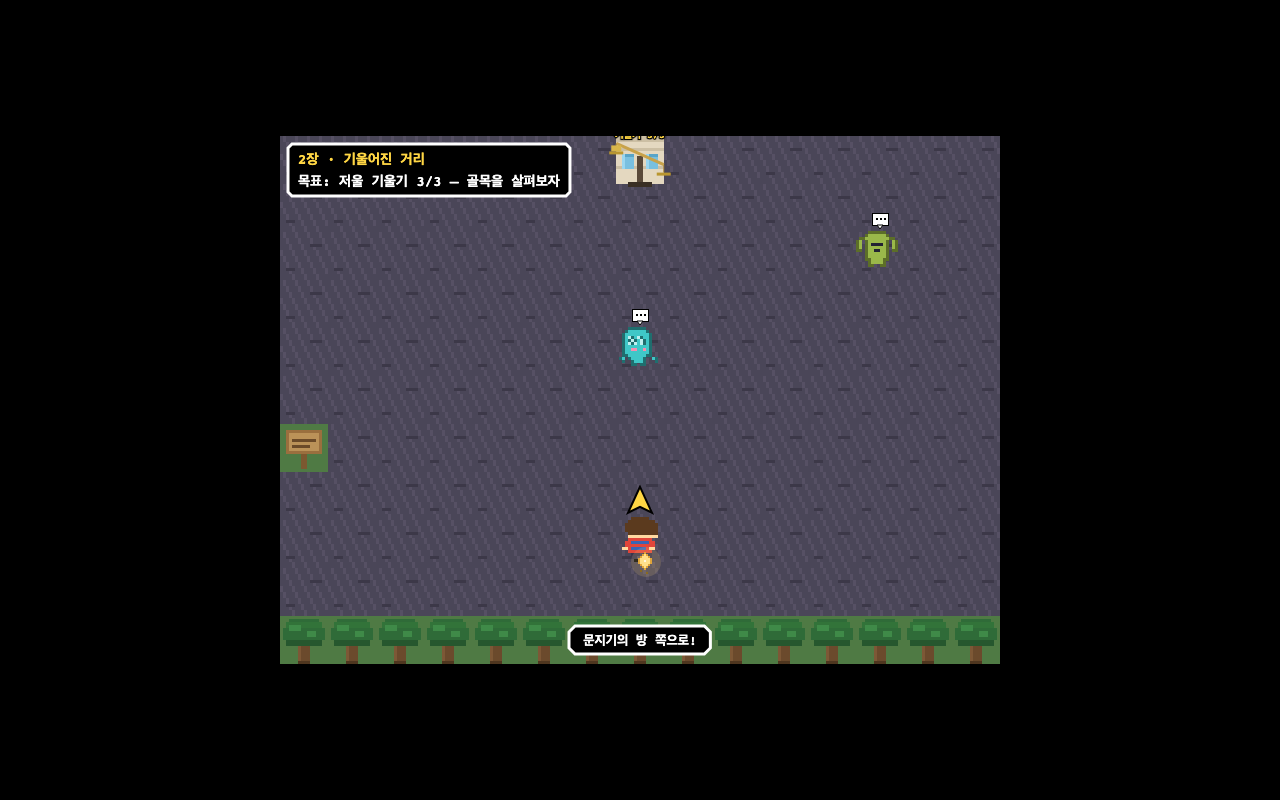
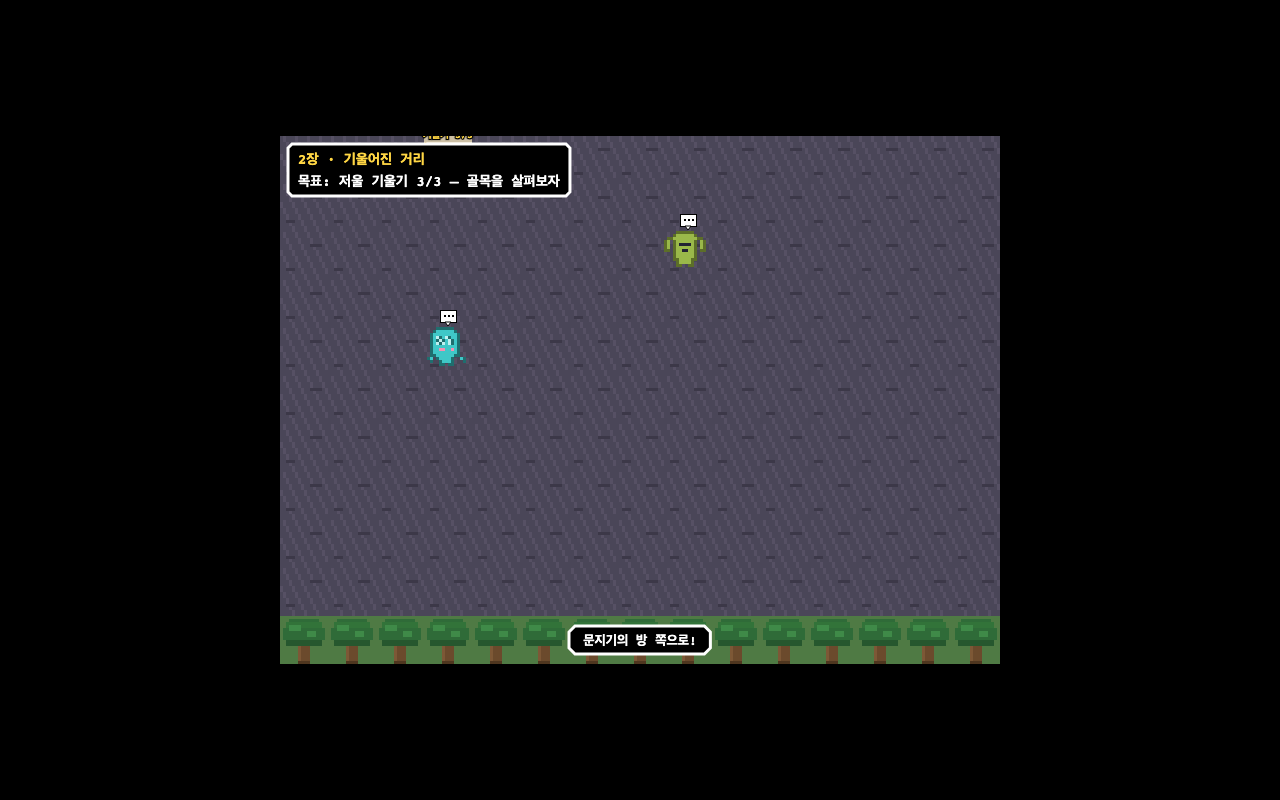
feat: expand chapter one street pressure

diff --git a/src/data.js b/src/data.js
@@ -36,7 +36,7 @@ const MAPS = {
     warps: [
       { x: 13, y: 0, to: 'forest', tx: 20, ty: 22 },
       { x: 14, y: 0, to: 'forest', tx: 21, ty: 22 },
-      { x: 24, y: 5, to: 'freestreet', tx: 14, ty: 17 },
+      { x: 24, y: 5, to: 'freestreet', tx: 18, ty: 21 },
     ],
     npcs: [
       { id: 'prof', x: 4, y: 12, pal: 'prof', name: '박사님' },
@@ -77,52 +77,57 @@ const MAPS = {
       '어디선가 안내방송이 들린다.\n"어서 오세요! 전부! 공짜!\n※약관은 아주 작게…"',
     ],
     tiles: [
-      'TTTTTTTTTTTTTTTTTTTTTTTTTTTT',
-      'TGOOOOOOOGGOOOOOOGGOOOOOOOGT',
-      'TGOOOOOOOGGOOOOOOGGOOOOOOOGT',
-      'TGOOOOOOOGGOOOOOOGGOOOOOOOGT',
-      'TGGGG6GGGGGGGG7GGGGGGG6GGGGT',
-      'TPPPPPPPPPPPPPPPPPPPPPPPPPPT',
-      'TPPPPPPPPYPPPPPPPPYPPPPPPPPT',
-      'TPPPPPPPPPPPPPPPPPPPPPPPPPPT',
-      'TPPPPPPPPPPPPPPPPPPPPPPPPPPT',
-      'TPPPPPPPPPPPPPPPPPPPPPPPPPPT',
-      'TPPPPPPPPPPPPPPPPPPPPPPPPPPT',
-      'TPPPPPPPPPPPPPPPPPPPPPPPPPPT',
-      'TPPPPPPPPPPPPPPPPPPPPPPPPPPT',
-      'TPPPPPPPPPPPPPPPPPPPYPPPPPP9',
-      'TPPPPPPPPPPPPPPPPPPPPPPPPPPT',
-      'TPPP6PPPPPPPPPPPPPPPPPPPPPPT',
-      'TGOOOOOOGGGGGGGGGGGGGGGGGGGT',
-      'TGOOOOOOGGGGGGPGGGGGGGGGGGGT',
-      'TGOOOOOOGGGGGGPGGGGGGGGGGGGT',
-      'TTTTTTTTTTTTTTTTTTTTTTTTTTTT',
+      'TTTTTTTTTTTTTTTTTTTTTTTTTTTTTTTTTTTTTT',
+      'TGGGGGGGGGGGGGGGGGGGGGGGGGGGGGGGGGGGGT',
+      'TGGGGGGGGGGGGGGGGGGGGGGGGGGGGGGGGGGGGT',
+      'TGGGGGGGGGGGGGGGGGGGGGGGGGGGGGGGGGGGGT',
+      'TGGGGGGGGGGGGGGGG7GGGGGGGGGGGGGGGGGGGT',
+      'TGGGGG6GGGGGGGGGGGGGGGGGGGGG6GGGGGGGGT',
+      'TPPPPPPPPPPPPPPPPPPPPPPPPPPPPPPPPPPPPT',
+      'TPPPPPPPPPYPPPPPPPPPPPPPPPPPPPPPPPPPPT',
+      'TPPPPPPPPPPPPPPPPPPPPPPPPPPPPPPPPPPPPT',
+      'TPPPPPPPPPPPPPPPPPPPPPPPPPPPPPPPPPPPPT',
+      'TPPPPPPPPPPPPPPPPPPPPPYPPPPPPPPPPPPPPT',
+      'TPPPPPPPPPPPPPPPPPPPPPPPPPPPPPPPPPPPPT',
+      'TPPPPPPPPPPPPPPPPPPPPPPPPPPPPPPPPPPPPT',
+      'TPPPPPPPPPPPPPPPPPPPPPPPPPPPPPPPPPPPPT',
+      'TPPPPPPPPPPPPPPPPPPPPPPPPPPPPPPPPPPPPT',
+      'TPPPPPPPPPPPPPPPPPPPPPPPPPPPPPPPPYPPP9',
+      'TPPPPPPPPPPPPPPPPPPPPPPPYPPPPPPPPPPPPT',
+      'TPPPPPPPPPPPPPPPPPPPPPPPPPPPPPPPPPPPPT',
+      'TPPPP6PPPPPPPPPPPPPPPPPPPPPPPPPPPPPPPT',
+      'TPPPPPPPPPPPPPPPPPPPPPPPPPPPPPPPPPPPPT',
+      'TGGGGGGGGGGGGGGGGGGGGGGGGGGGGGGGGGGGGT',
+      'TGGGGGGGGGGGGGGGGGPGGGGGGGGGGGGGGGGGGT',
+      'TGGGGGGGGGGGGGGGGGPGGGGGGGGGGGGGGGGGGT',
+      'TTTTTTTTTTTTTTTTTTTTTTTTTTTTTTTTTTTTTT',
     ],
     warps: [
-      { x: 14, y: 18, to: 'village', tx: 24, ty: 6 },
+      { x: 18, y: 22, to: 'village', tx: 24, ty: 6 },
       // 구역① 살금의 접수처
-      { x: 5, y: 4, to: 'traceroom', tx: 9, ty: 11 },
+      { x: 6, y: 5, to: 'traceroom', tx: 9, ty: 11 },
       // 구역② 새김의 게시판 광장 — 접수처를 먼저 다녀와야 내 조각이 존재한다 (순서 강제)
-      { x: 22, y: 4, to: 'boardplaza', tx: 12, ty: 13, needPuzzleClear: 'traces',
+      { x: 28, y: 5, to: 'boardplaza', tx: 12, ty: 13, needPuzzleClear: 'traces',
         lockText: '문틈에서 낮은 목소리가 들린다.\n새김: "아직 여기엔 네 조각이 없네.\n…먼저 접수처에 다녀와."' },
       // 구역③ 배달 창고
-      { x: 4, y: 15, to: 'warehouse', tx: 12, ty: 13 },
+      { x: 5, y: 18, to: 'warehouse', tx: 12, ty: 13 },
       // 금고문 — 잠금 3개(구역 클리어마다 1개)가 다 풀려야 주인의 방이 열린다
-      { x: 14, y: 4, to: 'ownerroom', tx: 5, ty: 7, needS1Locks: 3,
+      { x: 17, y: 4, to: 'ownerroom', tx: 5, ty: 7, needS1Locks: 3,
         lockText: '금고 문은 꿈쩍도 하지 않는다.\n잠금 세 개가 나란히 붙어 있다.' },
       // 2장 「기울어진 거리」 — 담아를 되돌린 뒤에야(chapter1Clear) 열리는 동쪽 문
-      { x: 27, y: 13, to: 'tiltstreet', tx: 1, ty: 10, needFlag: 'chapter1Clear', exitDir: 'east', dir: 'right',
-        lockText: '동쪽에 낯선 문이 하나 생겼다.\n문 너머가 이상하게… 기울어 보인다.\n지금은 굳게 잠겨 있다.' },
+      { x: 37, y: 15, to: 'tiltstreet', tx: 1, ty: 10, needFlag: 'chapter1Clear', exitDir: 'east', dir: 'right',
+        lockText: '동쪽 끝에 낯선 문이 하나 생겼다.\n멀리 걸어온 거리 너머가 이상하게… 기울어 보인다.\n지금은 굳게 잠겨 있다.' },
     ],
     npcs: [
-      // 살금 — 담아의 점원. 시킨 일이 미안한 아이 (거리를 서성인다)
-      { id: 'salgeum_st1', x: 9, y: 9, monSprite: 'mollaemon', name: '살금', wander: true },
-      { id: 'salgeum_st2', x: 19, y: 12, monSprite: 'mollaemon', name: '살금', wander: true },
+      // 살금 — 담아의 점원. 시킨 일이 미안한 아이. 넓은 거리 곳곳에 흩어져 있다.
+      { id: 'salgeum_st1', x: 10, y: 12, monSprite: 'mollaemon', name: '살금', wander: true },
+      { id: 'salgeum_st2', x: 26, y: 14, monSprite: 'mollaemon', name: '살금', wander: true },
     ],
     signs: [
-      { x: 9, y: 6, text: '≪전부 공짜 거리≫\n전부! 공짜! 진짜로!\n※약관은 아주 작게 적혀 있다.' },
-      { x: 18, y: 6, text: '[오늘의 안내]\n접수처는 왼쪽★ 게시판 광장은 오른쪽★\n창고는 아래쪽★ 전부 공짜!' },
-      { x: 20, y: 13, text: '[금고 안내]\n주인 전용★ 손님은 사절★\n…열쇠? 그런 건 손님이 알 거 없고~' },
+      { x: 10, y: 7, text: '≪전부 공짜 거리≫\n전부! 공짜! 진짜로!\n※약관은 아주 작게 적혀 있다.' },
+      { x: 22, y: 10, text: '[오늘의 안내]\n왼쪽 끝 접수처★ 오른쪽 끝 게시판 광장★\n남서쪽 창고★ 중앙 위 금고문★\n걸어 다니면 광고가 이름을 외운다.' },
+      { x: 24, y: 16, text: '[금고 안내]\n주인 전용★ 손님은 사절★\n…열쇠? 그런 건 손님이 알 거 없고~' },
+      { x: 33, y: 15, text: '[동쪽 문]\n아직은 잠겨 있다.\n하지만 담아를 만나고 나면, 다음 거리로 이어질 것 같다.' },
     ],
     monsters: [],
   },
@@ -2665,7 +2670,7 @@ function getObjective(flags, curMap) {
 // 보스/금고 문 좌표를 그대로 가리킨다(보스방 안이면 보스 좌표로 더 좁힌다).
 const V2_CHAPTERS = [
   { zoneMaps: ['freestreet', 'traceroom', 'boardplaza', 'warehouse'],
-    gate: { map: 'freestreet', x: 14, y: 4, label: '금고문' },
+    gate: { map: 'freestreet', x: 17, y: 4, label: '금고문' },
     bossMap: 'ownerroom', boss: { map: 'ownerroom', x: 5, y: 2, label: '담아' } },
   { zoneMaps: ['tiltstreet', 'echoalley', 'samplehouse', 'dimstreet'],
     gate: { map: 'tiltstreet', x: 14, y: 2, label: '문지기의 방' },
@@ -2683,7 +2688,7 @@ const V2_CHAPTERS = [
 // 챕터 진입 전 — 이전 챕터(또는 마을)에서 다음 챕터로 가는 문. 인덱스 = 클리어한 장 수.
 const V2_ENTRANCE = [
   { map: 'village', x: 24, y: 5, label: '전부 공짜 거리' },     // 0장 클리어(따라 격파 후) — 마을 문
-  { map: 'freestreet', x: 27, y: 13, label: '기울어진 거리' },  // 1장 클리어 — 2장 문
+  { map: 'freestreet', x: 37, y: 15, label: '기울어진 거리' },  // 1장 클리어 — 2장 문
   { map: 'tiltstreet', x: 27, y: 10, label: '대문짝 신문사' },  // 2장 클리어 — 3장 문
   { map: 'rumorstreet', x: 27, y: 10, label: '반짝 아케이드' }, // 3장 클리어 — 4장 문
   { map: 'arcade', x: 21, y: 8, label: '포근한 집' },           // 4장 클리어 — 5장 문
@@ -3575,7 +3580,7 @@ const PUZZLES = {
     objective: '정보를 지키며 출구를 찾자',
     objectiveCleared: '거리로 돌아가자',
     // 클리어 후 복귀 지점 (거리의 접수처 문 앞)
-    exitTo: { map: 'freestreet', x: 5, y: 5 },
+    exitTo: { map: 'freestreet', x: 6, y: 6 },
     steps: ['tokens', 'board', 'eraser', 'exit'], // 진행 단계 키
     // 각 단계 3단계 점진 힌트 (1:무엇을 볼지 / 2:왜 / 3:무엇을 할지) — 살금의 말투
     hints: {
@@ -3651,7 +3656,7 @@ const PUZZLES = {
     title: '새김의 게시판 광장',
     objective: '떠도는 내 조각 3개를 붙잡자',
     objectiveCleared: '거리로 돌아가자',
-    exitTo: { map: 'freestreet', x: 22, y: 5 },
+    exitTo: { map: 'freestreet', x: 28, y: 6 },
     steps: ['copies'],
     hints: {
       copies: [
@@ -3684,7 +3689,7 @@ const PUZZLES = {
     title: '배달 창고',
     objective: '상자 3개를 반송함으로 돌리자',
     objectiveCleared: '거리로 돌아가자',
-    exitTo: { map: 'freestreet', x: 4, y: 14 },
+    exitTo: { map: 'freestreet', x: 5, y: 17 },
     steps: ['levers'],
     hints: {
       levers: [
@@ -4196,6 +4201,14 @@ const EXAMINE_TILES = {
 
 // 맵별 특별 살펴보기 지점(좌표). 같은 좌표면 기본 타일 문구보다 우선.
 const MAP_PROPS = {
+  freestreet: [
+    { x: 12, y: 8, kind: 'dama_buildup', label: '작은 약관', flag: 'damaStreetTermsRead',
+      text: '광고판 아래 아주 작은 글씨가 있다.\n「무료 이용을 위해, 발자국·시선·망설임을 보관합니다.」\n담아의 이름이 맨 아래에 찍혀 있다.' },
+    { x: 22, y: 14, kind: 'dama_buildup', label: '비어 있는 상자', flag: 'damaStreetBoxRead',
+      text: '커다란 상자 안에는 물건 대신 이름표만 가득하다.\n누군가 소중한 걸 모으려다, 사람의 이름까지 모아 버린 것 같다.' },
+    { x: 31, y: 11, kind: 'dama_buildup', label: '멈춘 확성기', flag: 'damaStreetSpeakerRead',
+      text: '확성기가 잡음 섞인 목소리로 같은 말을 반복한다.\n"전부 공짜야… 버리지 마… 모아 두면 외롭지 않아…"\n목소리는 담아를 닮았다.' },
+  ],
   village: [
     { x: 5, y: 15, text: '경계마을의 연못.\n물고기 대신 작은 빛 알갱이가\n헤엄치고 있다.' },
     { x: 21, y: 14, text: '벽에 붙은 게시판.\n"제1회 AI 바르게 쓰기 그림 대회"\n포스터가 붙어 있다.' },

diff --git a/src/game.js b/src/game.js
@@ -1822,6 +1822,18 @@
     return Object.assign({ level }, table[level]);
   }
   function privacyLevelLabel(n) { return privacyPressureProfile(n).label; }
+  function ch1StreetVisualProfile(n, lowGraphics) {
+    const level = Math.max(0, Math.min(PRIVACY_LEAK_MAX, n || 0));
+    const low = !!lowGraphics;
+    return {
+      level,
+      adSigns: low ? Math.min(3, 1 + Math.floor(level / 2)) : 2 + level * 2,
+      sensors: low ? Math.min(2, Math.floor(level / 3)) : Math.floor((level + 1) / 2),
+      labelShadows: low ? Math.min(2, level >= 4 ? 2 : level >= 2 ? 1 : 0) : level,
+      glow: !low && level >= 2,
+      scanLines: !low && level >= 4,
+    };
+  }
   function addPrivacyLeak(reason) {
     const before = privacyLeak();
     const after = Math.min(PRIVACY_LEAK_MAX, before + 1);
@@ -2607,7 +2619,7 @@
     if (run.id === 'signup') game.flags.s4KeyId = true;
     game.puzzleRun = null;
     // 복귀 지점 (데이터화된 exitTo). 기본은 거리 입구 앞.
-    const exit = puz.exitTo || { map: 'freestreet', x: 14, y: 17 };
+    const exit = puz.exitTo || { map: 'freestreet', x: 18, y: 21 };
     game.map = exit.map;
     const p = game.player;
     p.x = exit.x; p.y = exit.y; p.px = exit.x * TS; p.py = exit.y * TS; p.moving = false;
@@ -4024,7 +4036,7 @@
     // 금고 밖(거리)으로 복귀
     game.map = 'freestreet';
     const p = game.player;
-    p.x = 14; p.y = 5; p.px = 14 * TS; p.py = 5 * TS; p.moving = false; p.dir = 'down';
+    p.x = 17; p.y = 5; p.px = 17 * TS; p.py = 5 * TS; p.moving = false; p.dir = 'down';
     held.delete('up'); held.delete('down'); held.delete('left'); held.delete('right');
     stickDir = null; stickRepeatFrames = 0;
     Sound.badge();
@@ -4082,7 +4094,7 @@
     // 신문사 입구(거리)로 복귀 — 이미 rumorFixed 상태라 거리는 풀린 모습이다
     game.map = 'rumorstreet';
     const p = game.player;
-    p.x = 14; p.y = 5; p.px = 14 * TS; p.py = 5 * TS; p.moving = false; p.dir = 'down';
+    p.x = 17; p.y = 5; p.px = 17 * TS; p.py = 5 * TS; p.moving = false; p.dir = 'down';
     held.delete('up'); held.delete('down'); held.delete('left'); held.delete('right');
     stickDir = null; stickRepeatFrames = 0;
     Sound.badge();
@@ -4214,7 +4226,7 @@
       game.flags.prologueClosed = true;
       game.map = 'freestreet';
       const p = game.player;
-      p.x = 14; p.y = 17; p.px = 14 * TS; p.py = 17 * TS; p.moving = false; p.dir = 'up';
+      p.x = 18; p.y = 21; p.px = 18 * TS; p.py = 21 * TS; p.moving = false; p.dir = 'up';
       held.delete('up'); held.delete('down'); held.delete('left'); held.delete('right');
       stickDir = null; stickRepeatFrames = 0;
       lines.push('숲 안쪽 공터의 종이들이 조용히 접힌다.\n멀리서 네온 간판 하나가 반짝이며 문처럼 열린다.');
@@ -6825,7 +6837,7 @@
     game.flags = flags;
     game.map = 'freestreet';
     const p = game.player;
-    p.x = 14; p.y = 17; p.px = 14 * TS; p.py = 17 * TS;
+    p.x = 18; p.y = 21; p.px = 18 * TS; p.py = 21 * TS;
     p.moving = false; p.dir = 'up';
     save();
   }
@@ -6837,7 +6849,7 @@
     game.flags = flags;
     game.map = 'tiltstreet';
     const p = game.player;
-    p.x = 14; p.y = 17; p.px = 14 * TS; p.py = 17 * TS;
+    p.x = 18; p.y = 21; p.px = 18 * TS; p.py = 21 * TS;
     p.moving = false; p.dir = 'up';
     save();
   }
@@ -6850,7 +6862,7 @@
     game.flags = flags;
     game.map = 'rumorstreet';
     const p = game.player;
-    p.x = 14; p.y = 17; p.px = 14 * TS; p.py = 17 * TS;
+    p.x = 18; p.y = 21; p.px = 18 * TS; p.py = 21 * TS;
     p.moving = false; p.dir = 'up';
     save();
   }
@@ -7435,6 +7447,53 @@
     drawMon(ctx, 'bandi', sx, sy, 2);
   }
 
+  function drawCh1StreetPressureObjects(cx, cy) {
+    if (game.map !== 'freestreet') return;
+    const profile = ch1StreetVisualProfile(privacyLeak(), game.lowGraphics || game.reduceFx);
+    const ads = [
+      { x: 8, y: 8, text: '무료' }, { x: 15, y: 12, text: '약관' }, { x: 24, y: 9, text: '추천' },
+      { x: 31, y: 13, text: '저장' }, { x: 19, y: 18, text: '이름?' }, { x: 33, y: 18, text: '동의?' },
+      { x: 11, y: 16, text: '발자국' }, { x: 27, y: 20, text: '공짜' }, { x: 4, y: 12, text: '열람' },
+      { x: 35, y: 10, text: '확인' }, { x: 21, y: 7, text: '보관' }, { x: 14, y: 21, text: '추적' },
+    ];
+    const sensors = [{ x: 14, y: 8 }, { x: 30, y: 8 }, { x: 23, y: 17 }];
+    ctx.save();
+    for (const [i, ad] of ads.slice(0, profile.adSigns).entries()) {
+      const sx = Math.round(ad.x * TS - cx + 6);
+      const sy = Math.round(ad.y * TS - cy + 8);
+      if (sx < -80 || sx > LW + 40 || sy < -40 || sy > LH + 40) continue;
+      const pulse = profile.glow ? 0.12 * Math.sin((game.time + i * 11) / 18) : 0;
+      ctx.globalAlpha = Math.max(0.5, 0.72 + pulse);
+      ctx.fillStyle = i % 2 ? '#28172f' : '#33220f';
+      ctx.fillRect(sx, sy, 38, 16);
+      ctx.strokeStyle = profile.glow ? '#ffd644' : '#7a6a44';
+      ctx.lineWidth = 1;
+      ctx.strokeRect(sx + 0.5, sy + 0.5, 37, 15);
+      ctx.fillStyle = i >= 4 ? '#ff8a8a' : '#ffd644';
+      ctx.font = 'bold 10px monospace';
+      ctx.fillText(ad.text, sx + 4, sy + 11);
+    }
+    ctx.globalAlpha = 1;
+    for (const s of sensors.slice(0, profile.sensors)) {
+      const sx = Math.round(s.x * TS - cx + TS / 2);
+      const sy = Math.round(s.y * TS - cy + TS / 2);
+      if (sx < -20 || sx > LW + 20 || sy < -20 || sy > LH + 20) continue;
+      ctx.strokeStyle = '#9bd3ff';
+      ctx.lineWidth = 2;
+      ctx.beginPath();
+      ctx.arc(sx, sy, 8, 0, Math.PI * 2);
+      ctx.stroke();
+      ctx.fillStyle = '#e0453a';
+      ctx.fillRect(sx - 2, sy - 2, 4, 4);
+    }
+    if (profile.scanLines) {
+      ctx.globalAlpha = 0.08;
+      ctx.fillStyle = '#ffd644';
+      for (let y = (game.time % 18); y < LH; y += 18) ctx.fillRect(0, y, LW, 1);
+    }
+    ctx.restore();
+  }
+
   function drawWorld() {
     const m = MAPS[game.map];
     const { cx, cy } = camera();
@@ -7458,6 +7517,8 @@
     drawIntroLabObjects(cx, cy);
     // 프롤로그 숲 — 출구 직후 따라의 첫 흔적을 실제 조사물로 보여 준다.
     drawForestPrologueObjects(cx, cy);
+    // 1장 허브 — 노출도가 오를수록 광고/감시 표식이 늘어나되 저사양 모드에서는 수를 줄인다.
+    drawCh1StreetPressureObjects(cx, cy);
     // 2장 허브 — 중앙의 거대한 저울 (구역 클리어마다 기울기가 준다)
     if (game.map === 'tiltstreet') drawTiltScale(cx, cy);
 
@@ -9030,7 +9091,7 @@
     applyArcadeClass, applyCozyhomeClass, applyFinalClass,
     getPuzzleLog, writePuzzleLog, nextWaypoint, currentObjective: () => getObjective(game.flags, game.map), // 나침반/HUD 경로 — E2E가 '화살표 따라가기'를 재현할 때 사용
     privacyLeak, privacyPressureProfile, addPrivacyLeak, notePrivacyRecoveryPiece,
-    toggleLowGraphics, effectiveDprCap, prologueVisibleMarks,
+    toggleLowGraphics, effectiveDprCap, prologueVisibleMarks, ch1StreetVisualProfile,
     stickDirection, buildDiagnosticReport, buildClassDiagnostic, topicSession,
     chapterBadgeLabel, hudBadgeText, PAUSE_ITEMS, TEACHER_ITEMS, PAUSE_LABELS,
     // 설득 배틀 순환 풀 확인용 (unlockAt 검증) — 현재 배틀의 등장 가능한 주장 텍스트 목록

diff --git a/sw.js b/sw.js
@@ -1,7 +1,7 @@
 // AI 윤리 어드벤처 — 오프라인 서비스워커
 // 모든 정적 자원을 처음 방문 때 캐시해, 이후 네트워크 없이도 실행되게 한다.
 // 게임 코드/콘텐츠가 바뀌면 CACHE 버전을 올리면 된다.
-const CACHE = 'ai-ethics-adventure-1c8d8e75';
+const CACHE = 'ai-ethics-adventure-305ea37e';
 const ASSETS = [
   './',
   './index.html',
